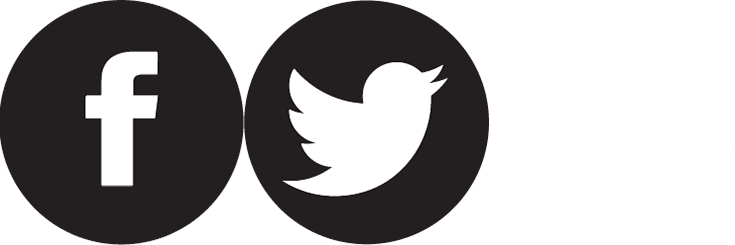
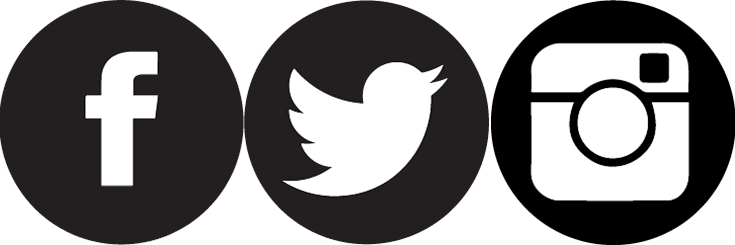
upgrades: new files was add, and new things

Changed region(s): [[0.6585, 0.0, 1.0, 1.0]]

diff --git a/public/css/startup.css b/public/css/startup.css
@@ -18,50 +18,63 @@ section.img-portada{width:100%;height:700px}
 #div-6 section.img-portada{background:url("/img/portadas/papahijo.jpg") 50% 0 no-repeat fixed;background-size:cover}
 #div-7 section.img-portada{background:url("/img/portadas/velero.png") 50% 0 no-repeat fixed;background-size:cover}
 .centrada,.centrada-success{border-radius:15px;padding:10px 45px 10px 45px;position:absolute;z-index:1}
-.centrada{background-color:rgba(66,11,10,0.1);left:0;right:0;top:0;bottom:0;margin-left:auto;margin-right:auto;margin-top:auto;margin-bottom:auto;width:65%;height:60%}
+.centrada{left:0;right:0;top:0;bottom:0;margin-left:auto;margin-right:auto;margin-top:auto;margin-bottom:auto;width:65%;height:60%}
 .centrada-success{background-color:rgba(66,11,10,0.3);left:0;right:0;top:0;bottom:0;margin-left:auto;margin-right:auto;margin-top:auto;margin-bottom:auto;width:65%;height:55%}
-.italic-portada-success{color:#fff;font-family:'Exo 2';font-style:italic;font-weight:500;line-height:110%;font-size:20px}
+.italic-portada-success{color:#fff;font-family:'Exo 2';font-style:none;font-weight:500;line-height:110%;font-size:20px}
 .hashtag{color:#fff;font-family:font-family 'Exo 2';font-size:50px;font-weight:500,bold;line-height:120%}
 .texto-principal{color:#fff;font-family:'Exo 2';font-style:'Semi Bold';font-size:40px;line-height:120%}
 .texto-principal-sucess{color:#fff;font-family:'Ubuntu';font-size:35px;line-height:120%}
 .slide .info-portada,.slide .info-features,.slide .info-portada-ultima{background-color:rgba(134,237,79,0.5);color:#fff}
-.slide .info-portada{padding:130px 0 0 0;height:550px}
+.slide .info-portada,.slide .info-features{padding:130px 0 0 0;height:550px}
 .slide .info-portada-ultima{padding:100px 0 0 0;height:350px}
-.slide .info-features{padding:50px 0 35px 0}
+.slide .info-features{padding:130px 0 100px 0;position:relative;height:600px;overflow:hidden;}
+.slide .info-features .section-feature{width:33.33%;display:inline-block;vertical-align:top}
 .texto-portada,.subtitulo-portada{font-family:'Exo';font-weight:600;line-height:135%;color:#fff}
-.texto-portada{font-size:45px;padding-bottom:10px}
+.texto-portada{font-size:45px;padding-bottom:10px;left:0;right:0;top:0;bottom:0;margin-left:auto;margin-right:auto;margin-top:auto;margin-bottom:auto}
 .tiny{font-size:30px}
 .negrita{font-family:"Exo 2";font-style:"Black"}
-.feature{background-color:rgba(102,228,113,0.5);-webkit-border-radius:25px;-moz-border-radius:25px;-o-border-radius:25px;-ms-border-radius:25px;height:650px;}
-.feature .info p{font-family:'Ubuntu';font-style:italic;font-size:25px;line-height:120%}
-.sub-principal{font-family:'Ubuntu';font-weigth:bold;line-height:125%;font-size:85px;color:#fff}
+.feature{background-color:rgba(102,228,113,0.5);-webkit-border-radius:25px;-moz-border-radius:25px;-o-border-radius:25px;-ms-border-radius:25px;height:550px;width:35%;margin:0 auto;padding:0;}
+.feature .info p{font-family:'Ubuntu';font-size:28px;line-height:120%}
+.feature .info-li p{font-family:'Ubuntu';font-size:22px}
+.sub-principal{font-family:'Ubuntu';font-weigth:bold;line-height:125%;font-size:65px;color:#fff}
 .sub-texto{font-size:35px}
 .title-feature{color:#0031a2;font-family:'Exo';font-weigth:600 bold;font-size:50px;line-height:110%}
-.tag,.gift{background-image:url("/img/iconos/tag_gift.png");background-size:300%;background-repeat:no-repeat;margin-top:5%;margin-bottom:4%;margin-left:37%;width:125px;height:125px}
-.tag:hover,.gift:hover{cursor:pointer;-webkit-animation:ringing 4s 7 ease .3s;-moz-animation:ringing 4s 7 ease .3s;-o-animation:ringing 4s 7 ease .3s;-ms-animation:ringing 4s 7 ease .3s}
+.tag,.gift,.guest{background-image:url("/img/iconos/tag_gift.png");background-size:300%;background-repeat:no-repeat;margin-top:5%;margin-bottom:4%;margin-left:37%;width:125px;height:125px}
+.tag:hover,.gift:hover,.guest:hover{cursor:pointer;-webkit-animation:ringing 4s 7 ease .3s;-moz-animation:ringing 4s 7 ease .3s;-o-animation:ringing 4s 7 ease .3s;-ms-animation:ringing 4s 7 ease .3s}
 .tag{background-position:0 0}
 .gift{background-position:-125px 0}
-.arrow-down,.facebook,.twitter,.facebook-success:hover,.twitter-success:hover{background-image:url("/img/iconos/networks.png");background-size:300%;background-repeat:no-repeat;-webkit-transition:all .3s ease-in-out;-moz-transition:all .3s ease-in-out;-o-transition:all .3s ease-in-out;transition:all .3s ease-in-out}
-.arrow-down:hover,.facebook:hover,.twitter:hover,.facebook-success,.twitter-success{background-image:url("/img/iconos/buttons_hover_sprite.png");background-size:300%;background-repeat:no-repeat}
+.guest{background-position:-250px 0}
+.facebook,.twitter,.instagram,.facebook-success:hover,.twitter-success:hover{background-image:url("/img/iconos/networks.png");background-size:300%;background-repeat:no-repeat;-webkit-transition:all .3s ease-in-out;-moz-transition:all .3s ease-in-out;-o-transition:all .3s ease-in-out;transition:all .3s ease-in-out}
+.arrow-down,.arrow-up,.arrow-left,.arrow-right{background-image:url("/img/iconos/arrows.png");background-size:400%;background-repeat:no-repeat;-webkit-transition:all .3s ease-in-out;-moz-transition:all .3s ease-in-out;-o-transition:all .3s ease-in-out;transition:all .3s ease-in-out;width:60px;height:60px;margin-top:8%;margin:0;position:relative;display:block}
+.arrow-down:hover,.arrow-up:hover,.arrow-left:hover,.arrow-right:hover{background-image:url("/img/iconos/arrow_hover.png");background-size:400%;background-repeat:no-repeat;cursor:pointer;width:60px;height:60px}
+.facebook:hover,.twitter:hover,.instagram:hover,.facebook-success,.twitter-success{background-image:url("/img/iconos/networks_hover.png");background-size:300%;background-repeat:no-repeat}
 .facebook-success,.twitter-success{width:55px;height:65px}
 .facebook-success{background-position:0 0;}
 .facebook-success:hover{background-position:0 0}
 .twitter-success{background-position:-75px 0;}
 .twitter-success:hover{background-position:-75px 0}
-a.arrow-down{background-position:-120px 0;width:60px;height:60px;margin-top:8%;font-family:'Open Sans',sans-serif;font-size:13px;font-weight:bold;text-transform:uppercase;line-height:18px;letter-spacing:1px;color:#292929;margin:0;text-decoration:none;text-shadow:0 1px 0 #fff;position:relative;display:block}
-.arrow-down:hover{cursor:pointer;background-position:-120px 0;width:60px;height:60px}
-.facebook,.twitter{margin:0;padding:0;width:15px;height:22px}
+a.arrow-down{background-position:0 0;margin-top:20px;}
+a.arrow-down:hover{background-position:0 0}
+a.arrow-up{margin-top:-40px;margin-left:30px;background-position:-60px 0}
+a.up-feature{height:60px;width:60px;margin:0 auto;padding:0}
+a.arrow-left{background-position:-120px 0}
+a.arrow-right{background-position:-180px;position:relative;z-index:3;margin-top:-25%}
+.facebook,.twitter,.instagram{margin:0;padding:0;width:15px;height:22px}
 .facebook{background-position:0 0;}
 .facebook:hover{background-position:0 0}
 .twitter{background-position:-35px 0;}
 .twitter:hover{background-position:-35px 0}
-.facebook-share,.twitter-share{background-image:url("/img/iconos/networks.png");background-size:300%;background-repeat:no-repeat;-webkit-transition:all .3s ease-in-out;-moz-transition:all .3s ease-in-out;-o-transition:all .3s ease-in-out;transition:all .3s ease-in-out}
-.facebook-share:hover,.twitter-share:hover{background-image:url("/img/iconos/buttons_hover_sprite.png");background-size:300%;background-repeat:no-repeat}
-.facebook-share,.twitter-share{width:20px;height:30px}
+.instagram{background-position:-70px 0;}
+.instagram:hover{background-position:-70px 0}
+.facebook-share,.twitter-share,.instagram-share{background-image:url("/img/iconos/networks.png");background-size:300%;background-repeat:no-repeat;-webkit-transition:all .3s ease-in-out;-moz-transition:all .3s ease-in-out;-o-transition:all .3s ease-in-out;transition:all .3s ease-in-out}
+.facebook-share:hover,.twitter-share:hover,.instagram-share:hover{background-image:url("/img/iconos/networks_hover.png");background-size:300%;background-repeat:no-repeat}
+.facebook-share,.twitter-share,.instagram-share{width:20px;height:30px}
 .facebook-share{background-position:0 0;}
 .facebook-share:hover{background-position:0 0}
 .twitter-share{background-position:-30px 0;}
 .twitter-share:hover{background-position:-30px 0}
+.instagram-share{background-position:-60px 0;}
+.instagram-share:hover{background-position:-60px 0}
 .newlester{background-color:transparent;border-radius:25px;margin-left:100px;margin-top:5px;}
 .italic-portada{color:#fff;font-family:'Exo 2';font-style:italic;font-weight:500;line-height:110%;font-size:30px}
 .registro-newlester{margin-top:5px;padding-top:15px;}

diff --git a/public/css/vendors/bootstrap.css b/public/css/vendors/bootstrap.css
@@ -1618,7 +1618,6 @@ footer {
   cursor: pointer;
   display: inline-block;
   vertical-align: top;
-  margin-right: 10px;
   width: 60px;
 }
 
@@ -1634,7 +1633,7 @@ footer {
   cursor: pointer;
   display: inline-block;
   vertical-align: top;
-  margin-right: 50px;
+  margin-right: 25px;
   width: 60px;
 }
 
@@ -2367,6 +2366,7 @@ a:hover {
   width: 100%;
   *zoom: 1;
 }
+
 .row-fluid:before,
 .row-fluid:after {
   display: table;

diff --git a/public/js/printoo.js b/public/js/printoo.js
@@ -4,6 +4,11 @@ $(document).ready(function(){
     	$('html,body').animate({scrollTop:$(this.hash).offset().top}, 5000);
     });
 
+    $(".arrow-up").click(function(event){        
+        event.preventDefault();
+    	$('html,body').animate({scrollTop:$(this.hash).offset().top}, 5000);
+    });
+
 	 $('#portada').parallax("50%", 0.1);   
 	 $('#div-2').parallax("50%", 0.1);   
 	 $('#div-3').parallax("50%", 0.1);   
